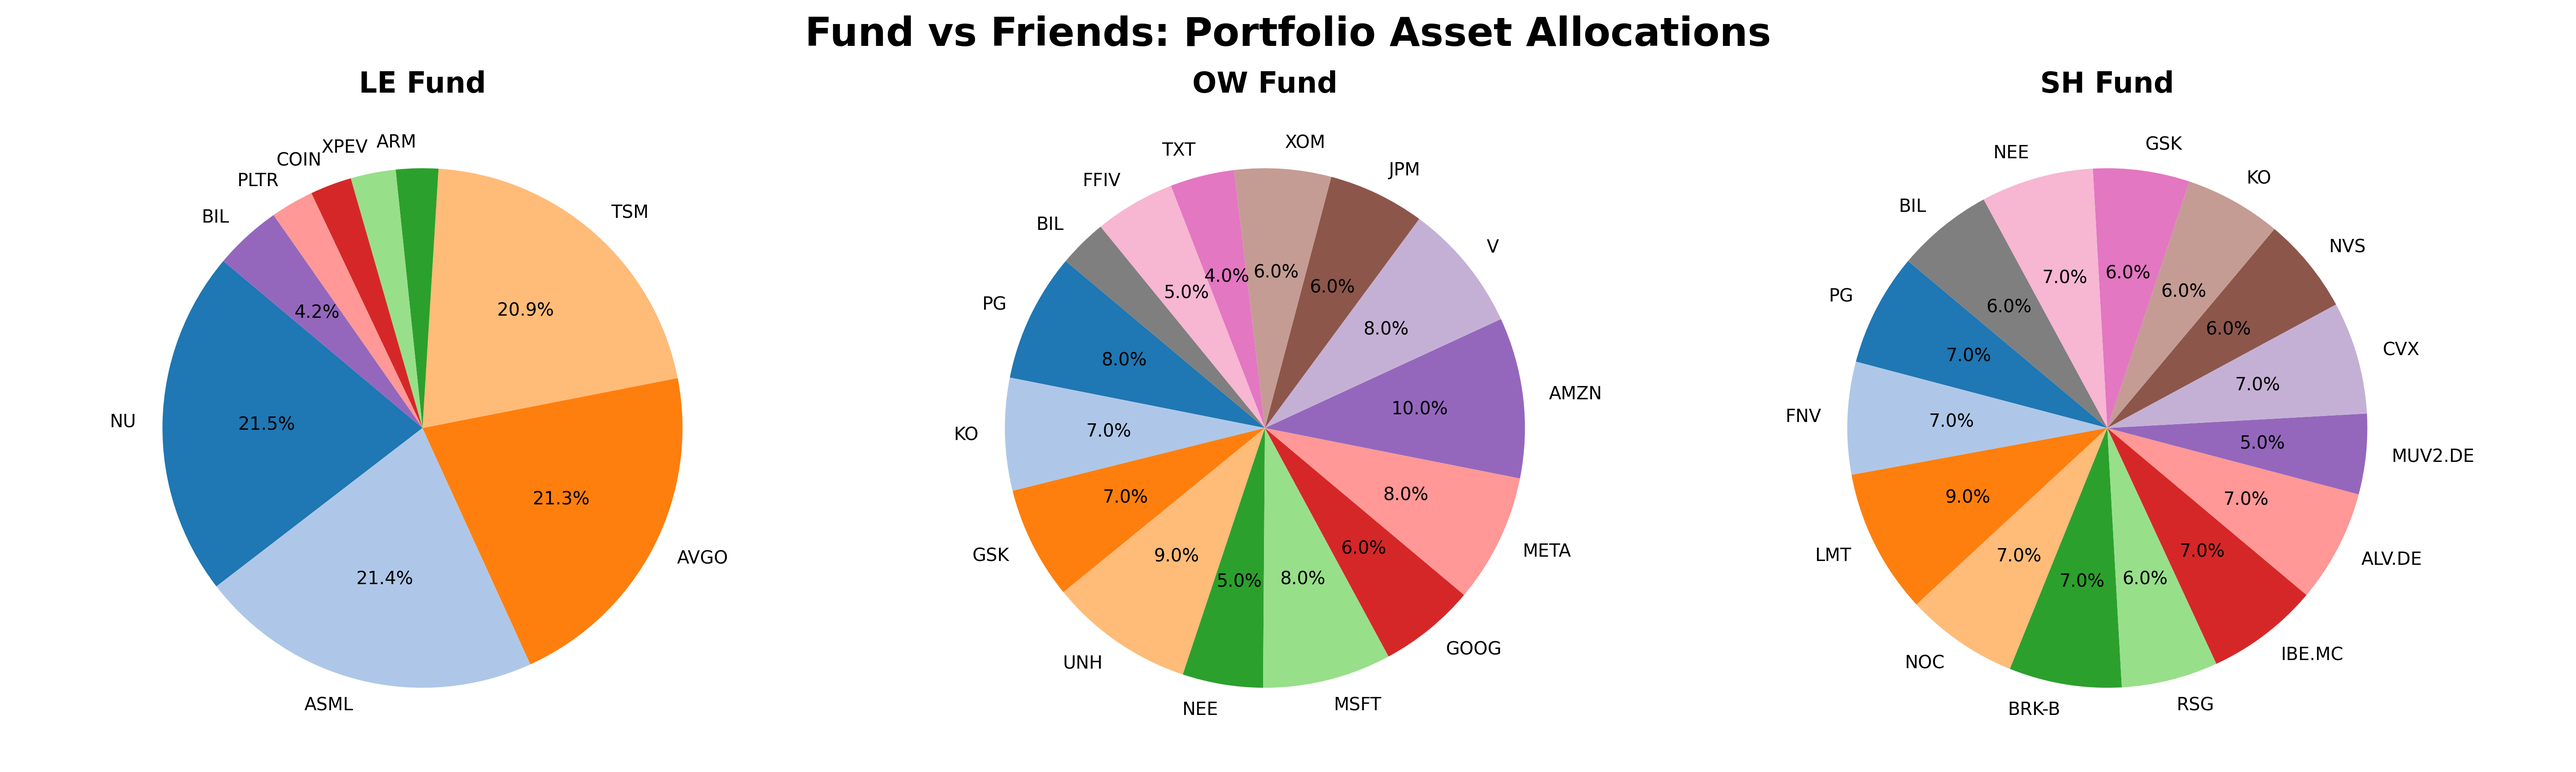
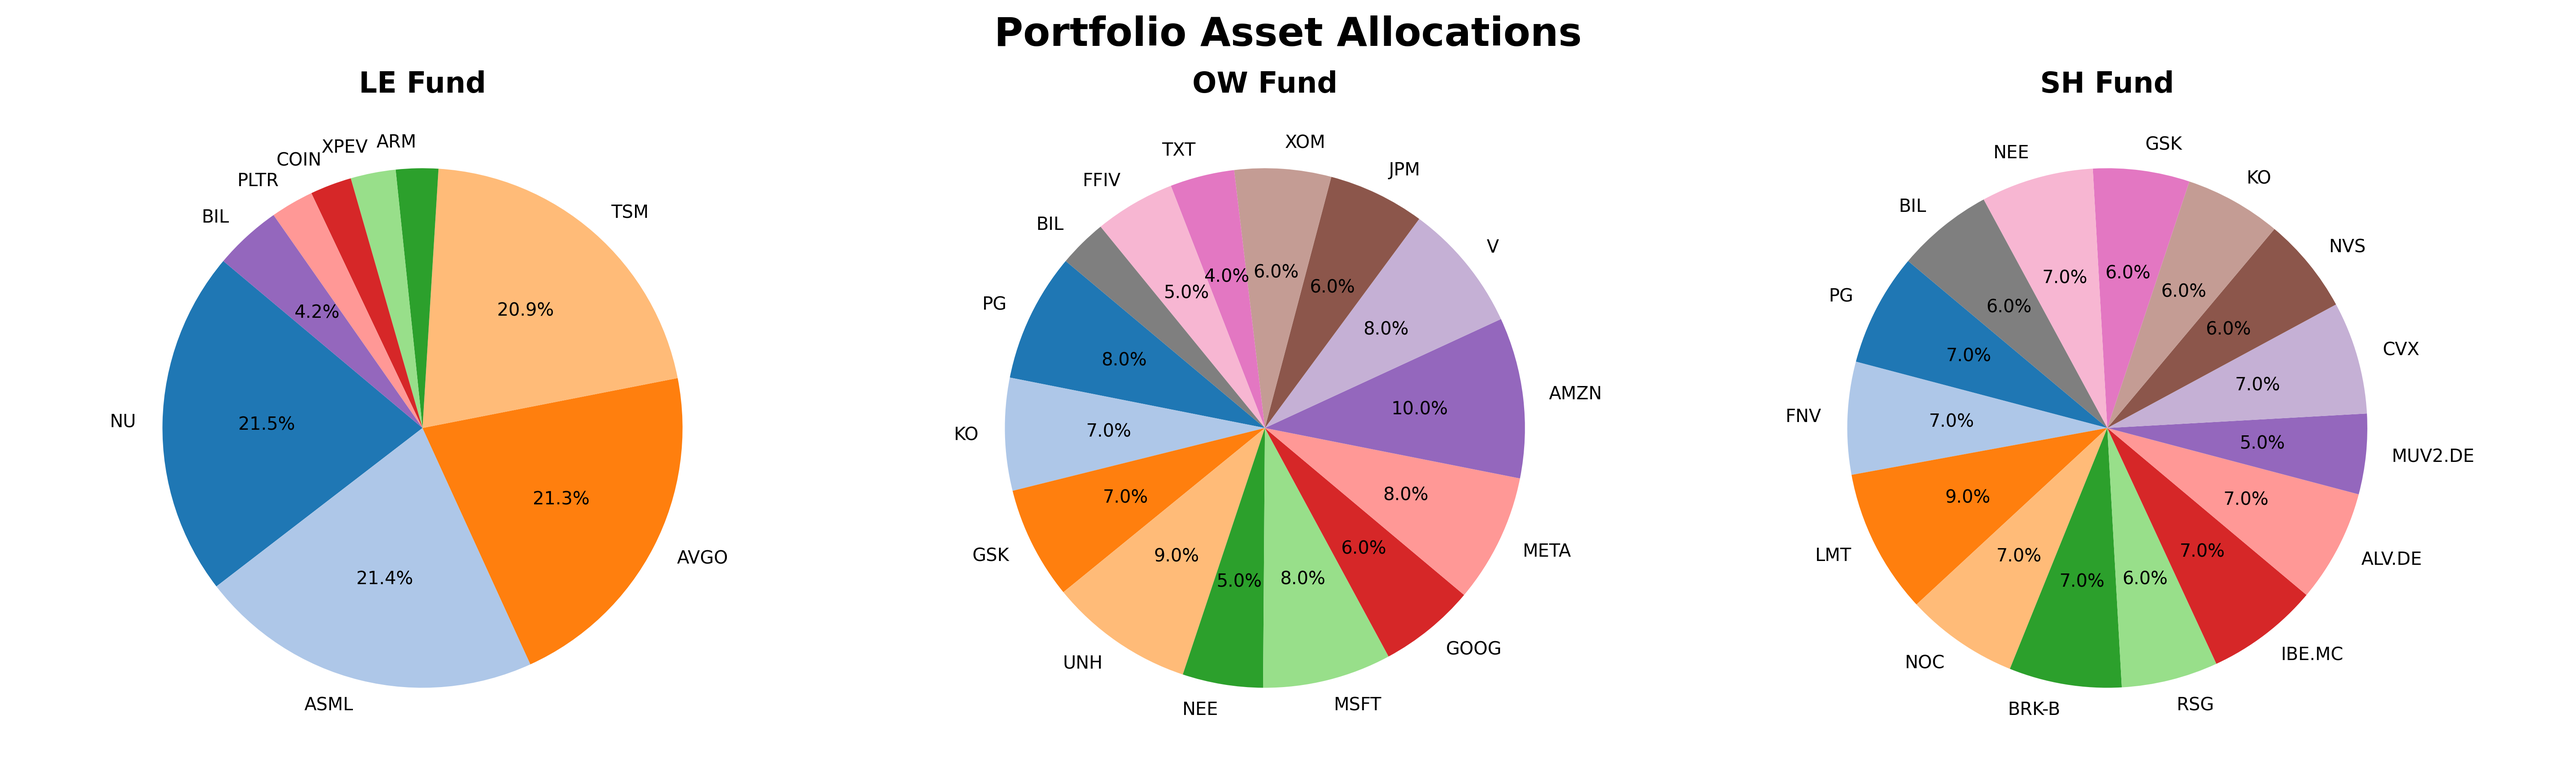
fix: update allocation pie chart title to remove 'Friends'

Changed region(s): [[0.3117, 0.0, 0.6857, 0.0622]]

diff --git a/LE Fund/generate_visualisations.py b/LE Fund/generate_visualisations.py
@@ -37,7 +37,7 @@ returns = data.pct_change().dropna()
 # 1. PIE CHARTS
 print("1. Generating Allocation Pie Charts...")
 fig, axes = plt.subplots(1, 3, figsize=(20, 6))
-fig.suptitle('Fund vs Friends: Portfolio Asset Allocations', fontsize=22, weight='bold')
+fig.suptitle('Portfolio Asset Allocations', fontsize=22, weight='bold')
 
 for ax, (name, weights) in zip(axes, portfolios.items()):
     labels = list(weights.keys())
